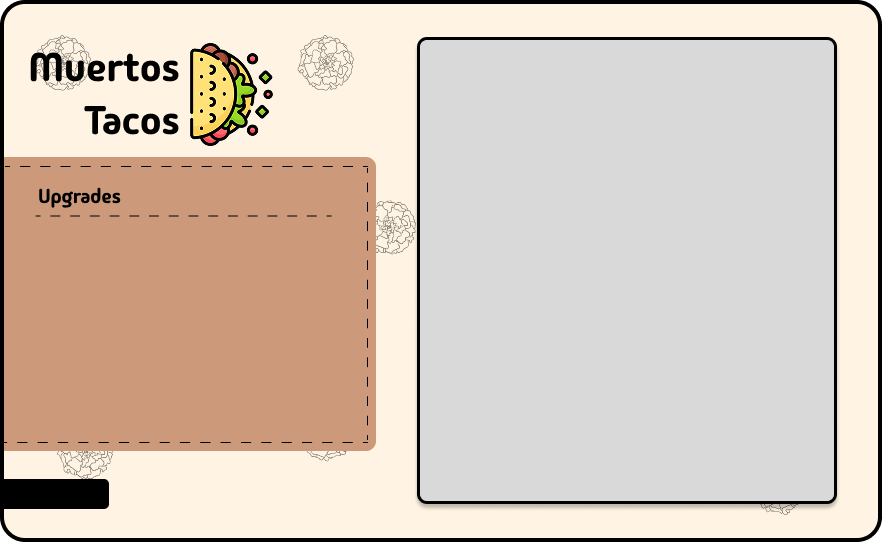
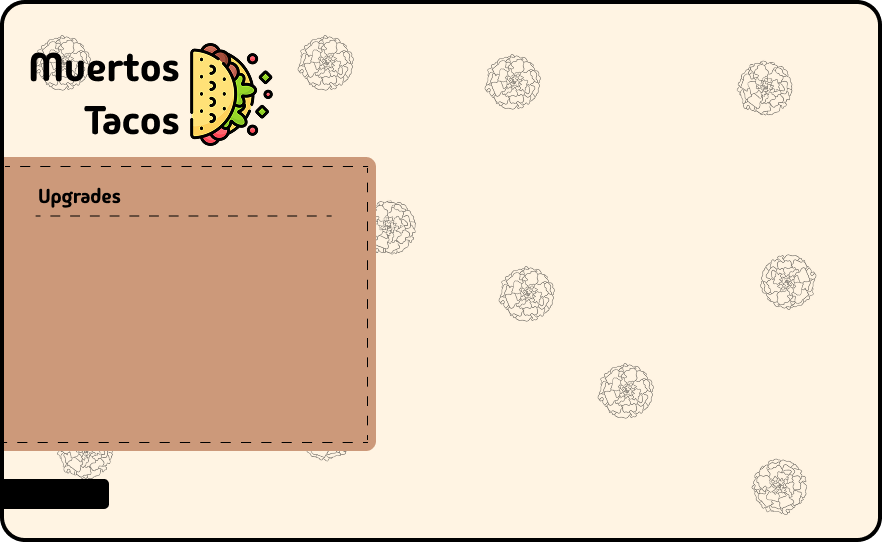
FEAT: added 1 layer to my game background (KMS KMS KMS)

diff --git a/src/main.rs b/src/main.rs
@@ -129,6 +129,10 @@ async fn main() {
     let rect_bg: Texture2D = load_texture("assets/background2.png").await.unwrap();
     rect_bg.set_filter(FilterMode::Nearest);
 
+    // layer 1
+    let layer1_bg: Texture2D = load_texture("assets/layer1.png").await.unwrap();
+    layer1_bg.set_filter(FilterMode::Nearest);
+
     // Rounded button background
     let button_bg: Texture2D = load_texture("assets/button_background.png").await.unwrap();
     button_bg.set_filter(FilterMode::Nearest);
@@ -188,6 +192,18 @@ async fn main() {
             WHITE,
             DrawTextureParams {
                 dest_size: Some(vec2(rect_w, rect_h)),
+                ..Default::default()
+            },
+        );
+
+        // draw layer 1
+        draw_texture_ex(
+            &layer1_bg,
+            rect_x + 417.0,
+            rect_y + 37.0,
+            WHITE,
+            DrawTextureParams {
+                dest_size: Some(vec2(420.0, 467.0)),
                 ..Default::default()
             },
         );
